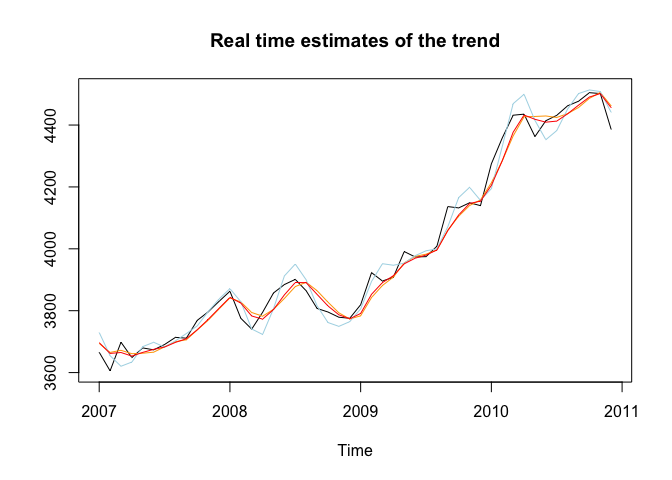
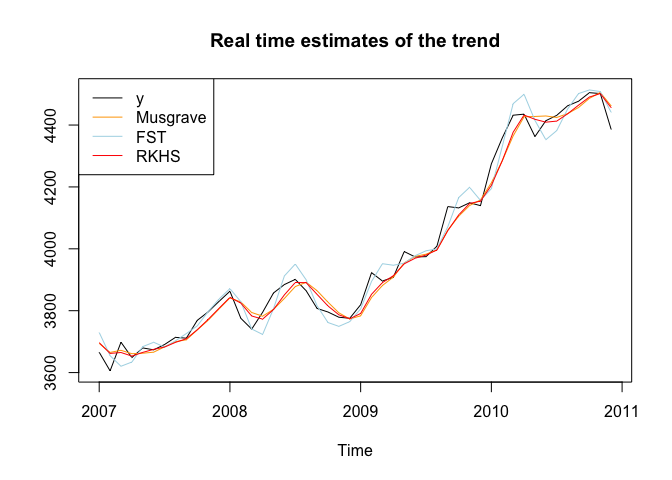
legend

Changed region(s): [[0.125, 0.1875, 0.3125, 0.375]]

diff --git a/README.md b/README.md
@@ -59,6 +59,8 @@ trend_rkhs <- jfilter(y, rkhs_timeliness)
 plot(ts.union(y, trend_musgrave,trend_fst,trend_rkhs),plot.type = "single",
      col = c("black","orange", "lightblue", "red"),
      main = "Filtered time series", ylab=NULL)
+legend("topleft", legend = c("y","Musgrave", "FST", "RKHS"),
+       col= c("black","orange", "lightblue", "red"), lty = 1)
 ```
 
 <img src="man/figures/README-plot-global-1.png" style="display: block; margin: auto;" />
@@ -88,6 +90,9 @@ lines(ts(c(tail(y,1), f_fst), frequency = frequency(y), start = end(y)),
       col = "lightblue", lty = 2)
 lines(ts(c(tail(y,1), f_rkhs), frequency = frequency(y), start = end(y)),
       col = "red", lty = 2)
+legend("topleft", legend = c("y","Musgrave", "FST", "RKHS", "Forecasts"),
+       col= c("black","orange", "lightblue", "red", "black"),
+       lty = c(1, 1, 1, 1, 2))
 ```
 
 <img src="man/figures/README-plot-forecast-1.png" style="display: block; margin: auto;" />
@@ -97,17 +102,43 @@ be compared:
 
 ``` r
 trend_henderson<- jasym_filter(y, musgrave[,"q=6"], lags = 6)
-trend_musgrave_q0 <- jasym_filter(y, musgrave[,1], lags = 6)
+trend_musgrave_q0 <- jasym_filter(y, musgrave[,"q=0"], lags = 6)
 trend_fst_q0 <- jasym_filter(y, fst_notimeliness[[1]], lags = 6)
-trend_rkhs_q0 <- jasym_filter(y, rkhs_timeliness[,1], lags = 6)
+trend_rkhs_q0 <- jasym_filter(y, rkhs_timeliness[,"q=0"], lags = 6)
 plot(window(ts.union(y, trend_musgrave_q0,trend_fst_q0,trend_rkhs_q0),
             start = 2007),
      plot.type = "single",
      col = c("black","orange", "lightblue", "red"),
      main = "Real time estimates of the trend", ylab=NULL)
+legend("topleft", legend = c("y","Musgrave", "FST", "RKHS"),
+       col= c("black","orange", "lightblue", "red"), lty = 1)
 ```
 
 <img src="man/figures/README-plot-q0-1.png" style="display: block; margin: auto;" />
+
+Different quality criteria from Grun-Rehomme *et al* (2018) and Wildi
+and McElroy(2019) can also be computed with the function
+`diagnostic_matrix()`:
+
+``` r
+q_0_coefs = list(Musgrave = musgrave[,"q=0"],
+                 fst_notimeliness = fst_notimeliness[[1]],
+                 rkhs_timeliness = rkhs_timeliness[,"q=0"])
+
+sapply(q_0_coefs, diagnostic_matrix,
+       lags = 6, sweight = musgrave[,"q=6"])
+#>         Musgrave fst_notimeliness rkhs_timeliness
+#> b_c  0.000000000     2.220446e-16     0.000000000
+#> b_l -0.575984377    -1.554312e-15    -0.611459167
+#> b_q -1.144593858     1.554312e-15     0.027626749
+#> F_g  0.357509832     9.587810e-01     0.381135700
+#> S_g  1.137610871     2.402400e+00     1.207752284
+#> T_g  0.034088260     4.676398e-04     0.023197411
+#> A_w  0.008306348     1.823745e-02     0.003677964
+#> S_w  0.449956378     3.575634e+00     0.628156109
+#> T_w  0.061789932     7.940547e-04     0.043540181
+#> R_w  0.299548665     1.721377e-01     0.219948644
+```
 
 ## Bibliography
 
@@ -129,4 +160,4 @@ trend-cycle analysis”. In: *Ann. Appl. Stat.* 2.4, pp. 1523–1553. URL:
 Wildi, Marc and Tucker McElroy (2019). “The trilemma between accuracy,
 timeliness and smoothness in real-time signal extraction”. In:
 *International Journal of Forecasting* 35.3, pp. 1072–1084. URL:
-<https://EconPapers.repec.org/RePEc:eee:intfor:v:35:y:2019:i:3:p:1072-1084>.
+[https://EconPapers.repec.org/RePEc:eee:intfor:v<wbr>:35:y:2019:i:3:p:1072-1084](https://EconPapers.repec.org/RePEc:eee:intfor:v:35:y:2019:i:3:p:1072-1084).
